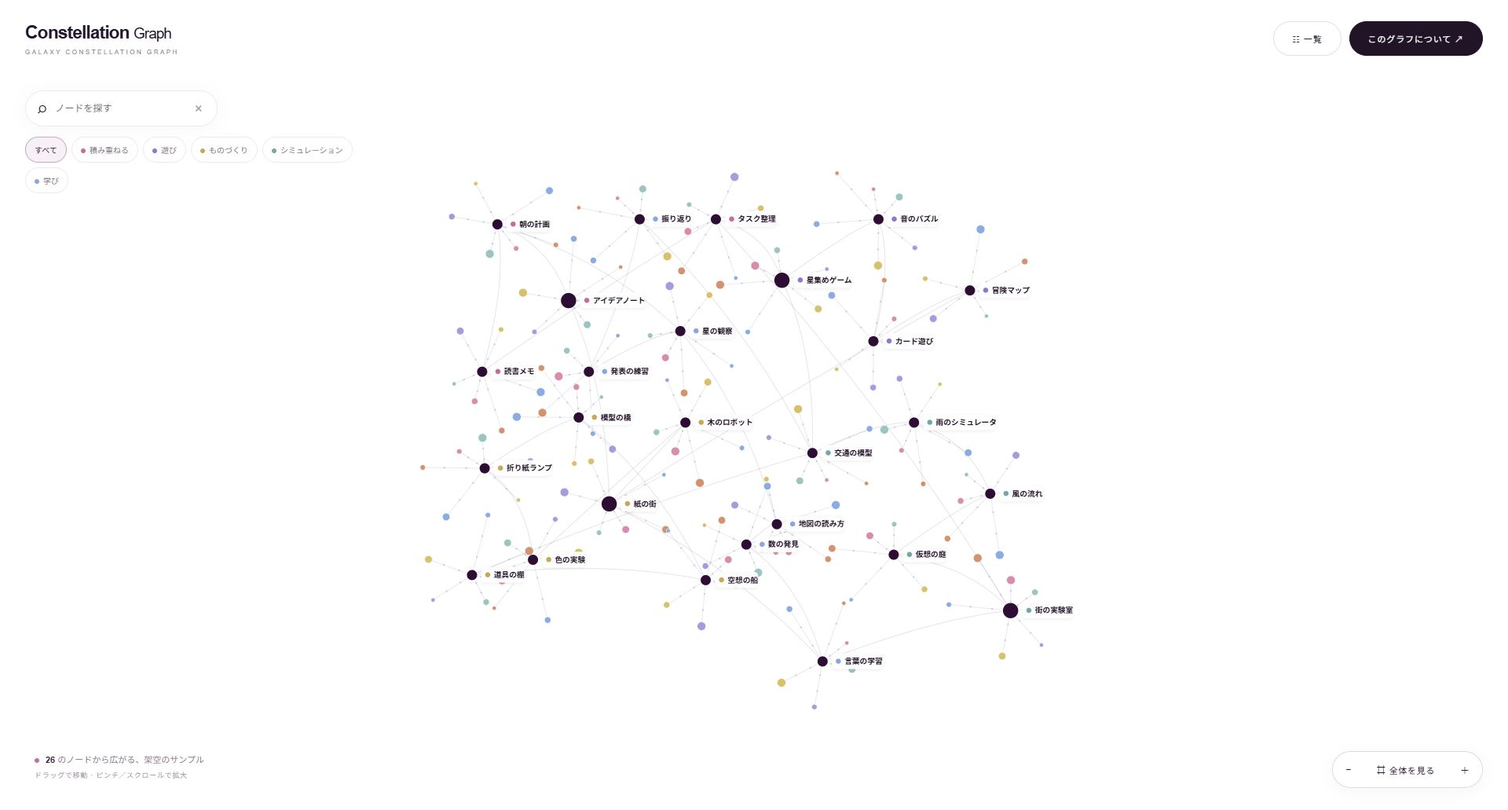
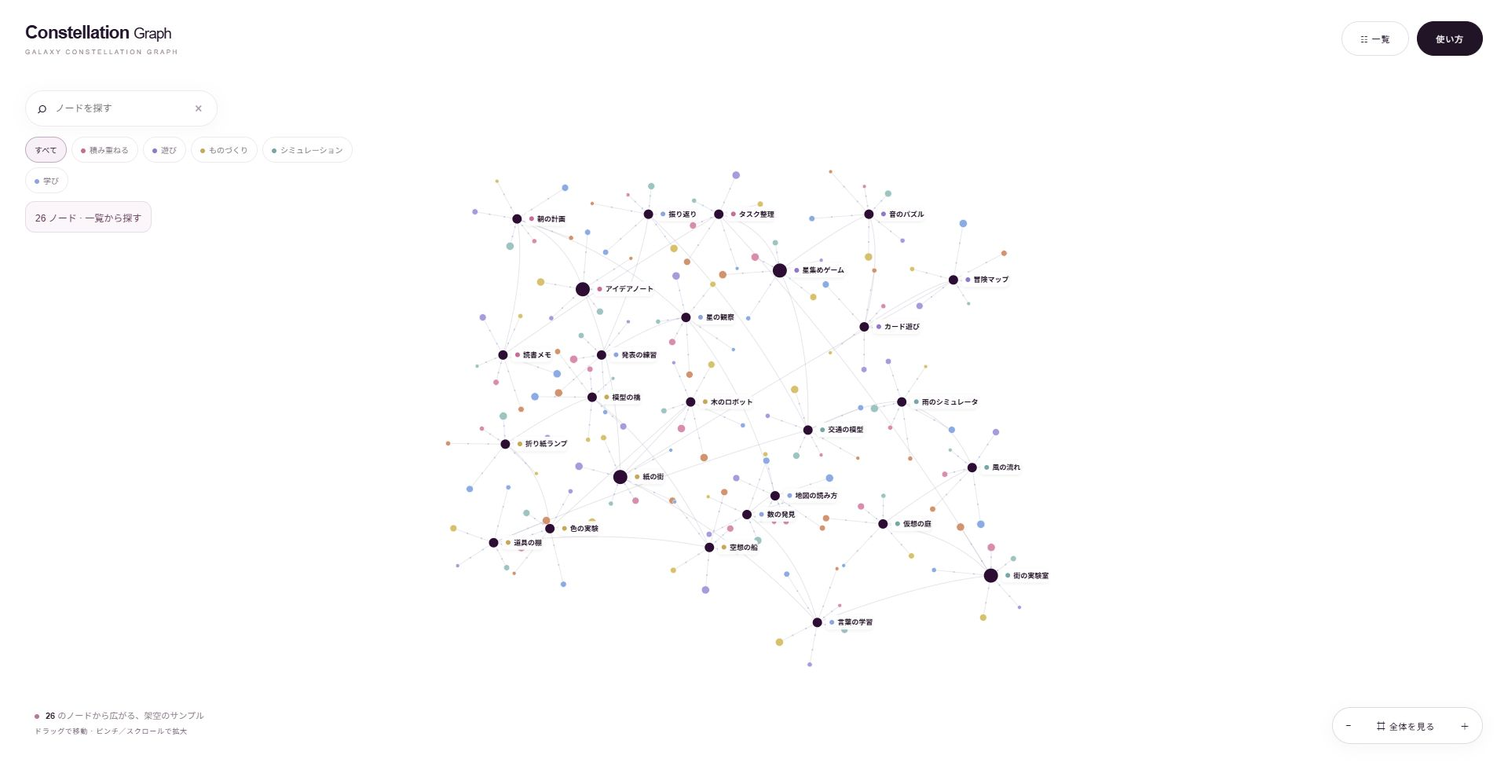
✨ Improve search feedback and graph navigation
- Add result counts, reset, detail history and locate action
- Refine narrow layouts and pointer-centered zoom
- Refresh screenshots and document verified UX flows

diff --git a/app.js b/app.js
@@ -1,19 +1,19 @@
-(async()=>{try {const response=await fetch('data.json');if(!response.ok)throw new Error('HTTP '+response.status);const D=GraphData.normalize(await response.json()),N=D.nodes,$=s=>document.querySelector(s),G={SYSTEM:['積み重ねる','#c76c96'],PLAY:['遊び','#8e78cf'],MAKE:['ものづくり','#c6a958'],SIM:['シミュレーション','#76a7a4'],LEARN:['学び','#8da5de']};let filter='ALL',query='',zoom=1,dx=0,dy=0,lastFocus,sortTime=false;const esc=s=>String(s).replace(/[&<>"']/g,c=>({'&':'&amp;','<':'&lt;','>':'&gt;','"':'&quot;',"'":'&#39;'}[c]));
+(async()=>{try {const response=await fetch('data.json');if(!response.ok)throw new Error('HTTP '+response.status);const D=GraphData.normalize(await response.json()),N=D.nodes,$=s=>document.querySelector(s),G={SYSTEM:['積み重ねる','#c76c96'],PLAY:['遊び','#8e78cf'],MAKE:['ものづくり','#c6a958'],SIM:['シミュレーション','#76a7a4'],LEARN:['学び','#8da5de']};let filter='ALL',query='',zoom=1,dx=0,dy=0,lastFocus,sortTime=false,detailTrail=[];const esc=s=>String(s).replace(/[&<>"']/g,c=>({'&':'&amp;','<':'&lt;','>':'&gt;','"':'&quot;',"'":'&#39;'}[c]));
 const pos=[[250,260],[110,110],[80,400],[540,100],[670,220],[860,100],[850,340],[1040,240],[330,660],[480,500],[180,770],[85,590],[270,490],[520,810],[60,800],[730,560],[930,500],[1080,640],[890,760],[1120,870],[750,970],[600,740],[660,700],[470,320],[290,400],[390,100]];
 N.forEach(n=>{if(!Object.hasOwn(G,n.group))Object.defineProperty(G,n.group,{value:[n.group,'#8b8490'],enumerable:true});if(!pos[n.id]){const a=n.id*2.399;pos[n.id]=[600+Math.cos(a)*(200+n.id*7),520+Math.sin(a)*(200+n.id*7)]}});$('#nodeCount').textContent=N.length;
 let leaves=[],leafMap=new Map(),branch=[];N.forEach(n=>n.quotes.forEach((q,j)=>{let l=leafMap.get(n.id+":"+q.id);if(!l){let angle=(j*2.399+n.id*.91),radius=60+(j%3)*31;l={id:leaves.length,x:pos[n.id][0]+Math.cos(angle)*radius,y:pos[n.id][1]+Math.sin(angle)*radius,n:n.id,q};leafMap.set(n.id+":"+q.id,l);leaves.push(l)}branch.push({n:n.id,l:l.id})}));const palette=['#d88dad','#a69bdb','#8babe2','#9dc4c0','#d7c16e','#d29371'];
 function visible(){return N.filter(n=>(filter==='ALL'||n.group===filter)&&(!query||[n.title,n.desc,n.sub,...n.quotes.map(q=>q.text)].join(' ').toLowerCase().includes(query)))}
-$('#filters').innerHTML='<button data-group="ALL" class="active">すべて</button>'+Object.entries(G).map(([k,[v,c]])=>`<button data-group="${esc(k)}"><i class="dot" style="--c:${c}"></i>${esc(v)}</button>`).join('');
+$('#filters').innerHTML='<button data-group="ALL" class="active" aria-pressed="true">すべて</button>'+Object.entries(G).map(([k,[v,c]])=>`<button data-group="${esc(k)}" aria-pressed="false"><i class="dot" style="--c:${c}"></i>${esc(v)}</button>`).join('');
 function transform(){let w=innerWidth,h=innerHeight;$('#world').setAttribute('transform',`translate(${w/2+dx},${h/2+dy}) scale(${zoom}) translate(-600,-520)`)}
 function reset(){const all=N.flatMap(n=>{let[x,y]=pos[n.id];return [[x-130,y-130],[x+Math.max(180,n.title.length*15+60),y+130]]});if(!all.length){zoom=1;dx=dy=0;transform();return}const xs=all.map(p=>p[0]),ys=all.map(p=>p[1]),minX=Math.min(...xs),maxX=Math.max(...xs),minY=Math.min(...ys),maxY=Math.max(...ys);zoom=Math.max(.02,Math.min(1.25,(innerWidth-40)/(maxX-minX),Math.max(80,innerHeight-300)/(maxY-minY)));dx=(600-(minX+maxX)/2)*zoom;dy=(520-(minY+maxY)/2)*zoom+45;transform()}
-function render(){let nodes=visible(),ids=new Set(nodes.map(n=>n.id));let html=D.edges.map(([a,b])=>`<path class="edge ${ids.has(a)&&ids.has(b)?'':'muted'}" d="M${pos[a]} Q${(pos[a][0]+pos[b][0])/2+35},${(pos[a][1]+pos[b][1])/2-35} ${pos[b]}"/>`).join('');html+=branch.map(({n,l})=>{let p=pos[n],s=leaves[l],on=ids.has(n);return `<path class="branch ${on?'':'muted'}" d="M${p} L${s.x},${s.y}"/>`+[.3,.65].map(t=>`<rect class="spark" x="${p[0]+(s.x-p[0])*t-1.5}" y="${p[1]+(s.y-p[1])*t-1.5}" width="3" height="3" opacity="${on?.7:.05}"/>`).join('')}).join('');html+=leaves.map((l,i)=>`<circle class="leaf ${ids.has(l.n)?'':'muted'}" data-source="${i}" role="button" tabindex="0" aria-label="${esc(N[l.n].title+'のメモ '+l.q.date.slice(0,10))}" cx="${l.x}" cy="${l.y}" r="${4+i%5*1.1}" fill="${palette[i%palette.length]}"><title>${esc(l.q.text.slice(0,70))}</title></circle>`).join('');html+=N.filter(n=>n.img).map(n=>{let[x,y]=pos[n.id];return `<path class="branch" d="M${x},${y} L${x-85},${y+90}"/><g class="asset" role="button" tabindex="0" aria-label="${esc(n.title)}のコンセプト画像" data-open="${n.id}" transform="translate(${x-85},${y+90})"><rect x="-31" y="-23" width="62" height="46" rx="5"/><image href="${esc(n.img)}" x="-28" y="-20" width="56" height="40" preserveAspectRatio="xMidYMid slice"/></g>`}).join('');html+=N.map(n=>{let[x,y]=pos[n.id],c=G[n.group][1],r=[0,4,8,19].includes(n.id)?15:10,wide=n.title.length*14+29;return `<g class="topic ${ids.has(n.id)?'':'muted'} ${query&&ids.has(n.id)?'match':''}" role="button" tabindex="0" aria-label="${esc(n.title)}" data-open="${n.id}" transform="translate(${x},${y})"><circle class="hub" r="${r}"/><rect class="label-bg" x="${r+8}" y="-16" rx="7" width="${wide}" height="31"/><circle cx="${r+21}" cy="-.5" r="5" fill="${c}"/><text x="${r+33}" y="5">${esc(n.title)}</text></g>`}).join('');$('#world').innerHTML=html;transform();let ordered=sortTime?[...nodes].sort((a,b)=>a.date.localeCompare(b.date)):nodes;$('#results').innerHTML=ordered.length?ordered.map(n=>`<button class="list-row" data-open="${n.id}"><span class="num">${String(n.id+1).padStart(2,'0')}</span><span><strong>${esc(n.title)}</strong><small>${esc(n.date)} · ${esc(n.sub)}</small></span><span class="go">↗</span></button>`).join(''):'<p class="empty">一致するノードがありません。</p>'}
-function show(html){if($('#drawer').hidden)lastFocus=document.activeElement;$('#detail').innerHTML=html;$('#drawer').hidden=false;$('#shade').hidden=false;document.body.classList.add('locked');$('#drawer').scrollTop=0;$('#close').focus()}
-function open(id){let n=N[id];let related=D.edges.flatMap(([a,b])=>a===id?[b]:b===id?[a]:[]);show(`<div class="eyebrow">${esc(G[n.group][0])} / ${String(id+1).padStart(2,'0')}</div><h2>${esc(n.title)}</h2><p class="sub">${esc(n.sub)}</p><p class="desc">${esc(n.desc)}</p>${n.img?`<img src="${esc(n.img)}" alt="${esc(n.title)}のコンセプトシート"><p class="note">架空のデモ画像です。</p>`:''}<h3>ノードのメモ</h3>${n.quotes.length?n.quotes.map(q=>`<blockquote>${esc(q.text).replace(/\[([^\]]+)\]\((https:\/\/[^)]+)\)/g,'<a href="$2" target="_blank" rel="noopener">$1 ↗</a>')}</blockquote><p class="source">${esc(q.author||'作成者未設定')} · ${esc(q.date.slice(0,10))}</p><details class="source"><summary>出典ID</summary>${esc(q.id)}</details>`).join(''):'<p class="note">メモは登録されていません。</p>'}${n.links.length?'<h3>関連する場所</h3>'+n.links.map(l=>`<a class="link" href="${esc(l)}" target="_blank" rel="noopener">${'関連リンク'} ↗</a>`).join(''):''}<h3>つながっているノード</h3>${related.map(i=>`<button class="related" data-open="${i}">${esc(N[i].title)} ↗</button>`).join('')}<p class="note">線はデータに定義されたノード同士の関係を表します。</p>`)}
-function close(){$('#drawer').hidden=true;$('#shade').hidden=true;document.body.classList.remove('locked');lastFocus?.focus()}
+function render(){let nodes=visible();$('#resultSummary').textContent=query||filter!=='ALL'?(nodes.length?nodes.length+' / '+N.length+' ノード · 結果を見る':'該当なし · 条件を変えてください'):N.length+' ノード · 一覧から探す';$('#resetFilters').hidden=!(query||filter!=='ALL');let ids=new Set(nodes.map(n=>n.id));let html=D.edges.map(([a,b])=>`<path class="edge ${ids.has(a)&&ids.has(b)?'':'muted'}" d="M${pos[a]} Q${(pos[a][0]+pos[b][0])/2+35},${(pos[a][1]+pos[b][1])/2-35} ${pos[b]}"/>`).join('');html+=branch.map(({n,l})=>{let p=pos[n],s=leaves[l],on=ids.has(n);return `<path class="branch ${on?'':'muted'}" d="M${p} L${s.x},${s.y}"/>`+[.3,.65].map(t=>`<rect class="spark" x="${p[0]+(s.x-p[0])*t-1.5}" y="${p[1]+(s.y-p[1])*t-1.5}" width="3" height="3" opacity="${on?.7:.05}"/>`).join('')}).join('');html+=leaves.map((l,i)=>`<circle class="leaf ${ids.has(l.n)?'':'muted'}" data-source="${i}" role="button" tabindex="${ids.has(l.n)?0:-1}" aria-label="${esc(N[l.n].title+'のメモ '+l.q.date.slice(0,10))}" cx="${l.x}" cy="${l.y}" r="${4+i%5*1.1}" fill="${palette[i%palette.length]}"><title>${esc(l.q.text.slice(0,70))}</title></circle>`).join('');html+=N.filter(n=>n.img).map(n=>{let[x,y]=pos[n.id];return `<path class="branch" d="M${x},${y} L${x-85},${y+90}"/><g class="asset" role="button" tabindex="0" aria-label="${esc(n.title)}のコンセプト画像" data-open="${n.id}" transform="translate(${x-85},${y+90})"><rect x="-31" y="-23" width="62" height="46" rx="5"/><image href="${esc(n.img)}" x="-28" y="-20" width="56" height="40" preserveAspectRatio="xMidYMid slice"/></g>`}).join('');html+=N.map(n=>{let[x,y]=pos[n.id],c=G[n.group][1],r=[0,4,8,19].includes(n.id)?15:10,wide=n.title.length*14+29;return `<g class="topic ${ids.has(n.id)?'':'muted'} ${query&&ids.has(n.id)?'match':''}" role="button" tabindex="${ids.has(n.id)?0:-1}" aria-label="${esc(n.title)}" data-open="${n.id}" transform="translate(${x},${y})"><circle class="hub" r="${r}"/><rect class="label-bg" x="${r+8}" y="-16" rx="7" width="${wide}" height="31"/><circle cx="${r+21}" cy="-.5" r="5" fill="${c}"/><text x="${r+33}" y="5">${esc(n.title)}</text></g>`}).join('');$('#world').innerHTML=html;transform();let ordered=sortTime?[...nodes].sort((a,b)=>a.date.localeCompare(b.date)):nodes;$('#results').innerHTML=ordered.length?ordered.map(n=>`<button class="list-row" data-open="${n.id}"><span class="num">${String(n.id+1).padStart(2,'0')}</span><span><strong>${esc(n.title)}</strong><small>${esc(n.date)} · ${esc(n.sub)}</small></span><span class="go">↗</span></button>`).join(''):'<p class="empty">一致するノードがありません。</p>'}
+function show(html){if($('#drawer').hidden){lastFocus=document.activeElement;detailTrail=[]}else{detailTrail.push({html:$('#detail').innerHTML,scroll:$('#drawer').scrollTop})}$('#detailBack').hidden=!detailTrail.length;$('#detail').innerHTML=html;$('#drawer').hidden=false;$('#shade').hidden=false;document.body.classList.add('locked');$('#drawer').scrollTop=0;$('#close').focus()}
+function open(id){let n=N[id];let related=D.edges.flatMap(([a,b])=>a===id?[b]:b===id?[a]:[]);show(`<div class="eyebrow">${esc(G[n.group][0])} / ${String(id+1).padStart(2,'0')}</div><h2>${esc(n.title)}</h2><button class="related" data-locate="${id}">このノードを地図で見る ↗</button><p class="sub">${esc(n.sub)}</p><p class="desc">${esc(n.desc)}</p>${n.img?`<img src="${esc(n.img)}" alt="${esc(n.title)}のコンセプトシート"><p class="note">架空のデモ画像です。</p>`:''}<h3>ノードのメモ</h3>${n.quotes.length?n.quotes.map(q=>`<blockquote>${esc(q.text).replace(/\[([^\]]+)\]\((https:\/\/[^)]+)\)/g,'<a href="$2" target="_blank" rel="noopener">$1 ↗</a>')}</blockquote><p class="source">${esc(q.author||'作成者未設定')} · ${esc(q.date.slice(0,10))}</p><details class="source"><summary>出典ID</summary>${esc(q.id)}</details>`).join(''):'<p class="note">メモは登録されていません。</p>'}${n.links.length?'<h3>関連する場所</h3>'+n.links.map(l=>`<a class="link" href="${esc(l)}" target="_blank" rel="noopener">${'関連リンク'} ↗</a>`).join(''):''}<h3>つながっているノード</h3>${related.map(i=>`<button class="related" data-open="${i}">${esc(N[i].title)} ↗</button>`).join('')}<p class="note">線はデータに定義されたノード同士の関係を表します。</p>`)}
+function close(){detailTrail=[];$('#detailBack').hidden=true;$('#drawer').hidden=true;$('#shade').hidden=true;document.body.classList.remove('locked');lastFocus?.focus()}
 function openSource(i){let l=leaves[i],q=l.q;show(`<div class="eyebrow">関連データ</div><h2>${esc(N[l.n].title)}</h2><blockquote>${esc(q.text)}</blockquote><p class="source">${esc(q.author||'作成者未設定')} · ${esc(q.date.slice(0,10))}</p><details class="source"><summary>出典ID</summary>${esc(q.id)}</details><button class="related" data-open="${l.n}">このノードをひらく ↗</button>`)}
-document.addEventListener('click',e=>{let o=e.target.closest('[data-open]');if(o)open(+o.dataset.open);let source=e.target.closest('[data-source]');if(source)openSource(+source.dataset.source);let f=e.target.closest('[data-group]');if(f){filter=f.dataset.group;document.querySelectorAll('[data-group]').forEach(x=>x.classList.toggle('active',x===f));render();let v=visible();if(filter!=='ALL'&&v.length){let xs=v.map(n=>pos[n.id][0]),ys=v.map(n=>pos[n.id][1]);zoom=Math.min(1.25,innerWidth/(Math.max(...xs)-Math.min(...xs)+300),(innerHeight-200)/(Math.max(...ys)-Math.min(...ys)+220));dx=(600-(Math.max(...xs)+Math.min(...xs)+150)/2)*zoom;dy=(520-(Math.max(...ys)+Math.min(...ys))/2)*zoom+50;transform()}else reset(true)}});document.addEventListener('keydown',e=>{if(e.key==='Escape'){if(!$('#drawer').hidden)close();$('#list').hidden=true}if((e.key==='Enter'||e.key===' ')&&e.target.matches('.topic,.leaf,.asset')){e.preventDefault();e.target.dataset.open!==undefined?open(+e.target.dataset.open):openSource(+e.target.dataset.source)}if(e.key==='Tab'&&!$('#drawer').hidden){let a=[...$('#drawer').querySelectorAll('button,a,summary')],first=a[0],last=a.at(-1);if(e.shiftKey&&document.activeElement===first){e.preventDefault();last.focus()}else if(!e.shiftKey&&document.activeElement===last){e.preventDefault();first.focus()}}});$('#close').onclick=close;$('#shade').onclick=close;$('#listToggle').onclick=()=>$('#list').hidden=!$('#list').hidden;$('#listClose').onclick=()=>$('#list').hidden=true;$('#time').onclick=()=>{sortTime=!sortTime;$('#time').textContent=sortTime?'ノード順に並べる':'日付順に並べる';render()};$('#search').oninput=e=>{query=e.target.value.toLowerCase().trim();render();if(query){let n=visible()[0];if(n){zoom=innerWidth<650?.86:1.15;dx=(600-pos[n.id][0]-80)*zoom;dy=(520-pos[n.id][1])*zoom;transform()}}};$('#clear').onclick=()=>{$('#search').value='';query='';render();reset(true)};$('#home').onclick=e=>{e.preventDefault();reset(true)};
+document.addEventListener('click',e=>{const locate=e.target.closest('[data-locate]');if(locate){const id=+locate.dataset.locate;$('#resetFilters').onclick();close();$('#list').hidden=true;zoom=innerWidth<650?.86:1.15;dx=(600-pos[id][0]-80)*zoom;dy=(520-pos[id][1])*zoom;transform();return}let o=e.target.closest('[data-open]');if(o)open(+o.dataset.open);let source=e.target.closest('[data-source]');if(source)openSource(+source.dataset.source);let f=e.target.closest('[data-group]');if(f){filter=f.dataset.group;document.querySelectorAll('[data-group]').forEach(x=>(x.classList.toggle('active',x===f),x.setAttribute('aria-pressed',x===f)));render();let v=visible();if(filter!=='ALL'&&v.length){let xs=v.map(n=>pos[n.id][0]),ys=v.map(n=>pos[n.id][1]);zoom=Math.min(1.25,innerWidth/(Math.max(...xs)-Math.min(...xs)+300),(innerHeight-200)/(Math.max(...ys)-Math.min(...ys)+220));dx=(600-(Math.max(...xs)+Math.min(...xs)+150)/2)*zoom;dy=(520-(Math.max(...ys)+Math.min(...ys))/2)*zoom+50;transform()}else reset(true)}});document.addEventListener('keydown',e=>{if(e.key==='Escape'){if(!$('#drawer').hidden)close();$('#list').hidden=true}if((e.key==='Enter'||e.key===' ')&&e.target.matches('.topic,.leaf,.asset')){e.preventDefault();e.target.dataset.open!==undefined?open(+e.target.dataset.open):openSource(+e.target.dataset.source)}if(e.key==='Tab'&&!$('#drawer').hidden){let a=[...$('#drawer').querySelectorAll('button,a,summary')].filter(el=>!el.hidden),first=a[0],last=a.at(-1);if(e.shiftKey&&document.activeElement===first){e.preventDefault();last.focus()}else if(!e.shiftKey&&document.activeElement===last){e.preventDefault();first.focus()}}});$('#detailBack').onclick=()=>{const prev=detailTrail.pop();if(!prev)return;$('#detail').innerHTML=prev.html;$('#drawer').scrollTop=prev.scroll;$('#detailBack').hidden=!detailTrail.length;$('#close').focus()};$('#close').onclick=close;$('#shade').onclick=close;$('#resultSummary').onclick=()=>{$('#list').hidden=false};$('#resetFilters').onclick=()=>{filter='ALL';query='';$('#search').value='';document.querySelectorAll('[data-group]').forEach(x=>{x.classList.toggle('active',x.dataset.group==='ALL');x.setAttribute('aria-pressed',x.dataset.group==='ALL')});render();reset()};$('#listToggle').onclick=()=>$('#list').hidden=!$('#list').hidden;$('#listClose').onclick=()=>$('#list').hidden=true;$('#time').onclick=()=>{sortTime=!sortTime;$('#time').textContent=sortTime?'ノード順に並べる':'日付順に並べる';render()};$('#search').oninput=e=>{query=e.target.value.toLowerCase().trim();render();if(query){let n=visible()[0];if(n){zoom=innerWidth<650?.86:1.15;dx=(600-pos[n.id][0]-80)*zoom;dy=(520-pos[n.id][1])*zoom;transform()}}};$('#clear').onclick=()=>{$('#search').value='';query='';render();reset(true)};$('#home').onclick=e=>{e.preventDefault();reset(true)};
 $('#scope').onclick=()=>show(`<div class="eyebrow">GALAXY CONSTELLATION GRAPH · DEMO</div><h2>ノードと辺で、<br>つながりを可視化。</h2><p class="desc">大きな濃色の点はノード。周囲の色付きの点は、架空の関連データです。どちらも触れると開きます。線をたどると、試行錯誤のつながりが見えてきます。</p><h3>収録範囲</h3><p class="desc">${esc(D.scope)}</p><p class="desc">${N.length}ノード・${leaves.length}件の関連データ。線はサンプルとして整理した関係で、実システムの接続や完成率ではありません。</p><h3>公開デモ</h3><p class="note">全データは公開デモ用に作成した架空の内容です。実在人物の記録・画像は含みません。外部解析タグはありません。</p>`);
-$('#plus').onclick=()=>{zoom=Math.min(3,zoom*1.3);transform()};$('#minus').onclick=()=>{zoom=Math.max(.2,zoom/1.3);transform()};$('#reset').onclick=()=>reset();let points=new Map(),start;const map=$('#map');map.onpointerdown=e=>{if(e.target.closest('.topic,.leaf,.asset'))return;points.set(e.pointerId,{x:e.clientX,y:e.clientY});map.setPointerCapture(e.pointerId);let p=[...points.values()];start={dx,dy,zoom,x:p[0].x,y:p[0].y,dist:p.length>1?Math.hypot(p[1].x-p[0].x,p[1].y-p[0].y):0}};map.onpointermove=e=>{if(!points.has(e.pointerId)||!start)return;points.set(e.pointerId,{x:e.clientX,y:e.clientY});let p=[...points.values()];if(p.length===2&&start.dist){zoom=Math.min(3,Math.max(.2,start.zoom*Math.hypot(p[1].x-p[0].x,p[1].y-p[0].y)/start.dist))}else{dx=start.dx+p[0].x-start.x;dy=start.dy+p[0].y-start.y}transform()};map.onpointerup=map.onpointercancel=e=>{points.delete(e.pointerId);let p=[...points.values()];start=p.length?{dx,dy,zoom,x:p[0].x,y:p[0].y,dist:0}:null};map.onwheel=e=>{e.preventDefault();zoom=Math.min(3,Math.max(.2,zoom*(e.deltaY<0?1.09:.92)));transform()};addEventListener('resize',transform);render();reset(true);
+$('#plus').onclick=()=>{zoom=Math.min(3,zoom*1.3);transform()};$('#minus').onclick=()=>{zoom=Math.max(.02,zoom/1.3);transform()};$('#reset').onclick=()=>reset();let points=new Map(),start;const map=$('#map');map.onpointerdown=e=>{if(e.target.closest('.topic,.leaf,.asset'))return;points.set(e.pointerId,{x:e.clientX,y:e.clientY});map.setPointerCapture(e.pointerId);let p=[...points.values()];start={dx,dy,zoom,x:p[0].x,y:p[0].y,dist:p.length>1?Math.hypot(p[1].x-p[0].x,p[1].y-p[0].y):0}};map.onpointermove=e=>{if(!points.has(e.pointerId)||!start)return;points.set(e.pointerId,{x:e.clientX,y:e.clientY});let p=[...points.values()];if(p.length===2&&start.dist){zoom=Math.min(3,Math.max(.02,start.zoom*Math.hypot(p[1].x-p[0].x,p[1].y-p[0].y)/start.dist))}else{dx=start.dx+p[0].x-start.x;dy=start.dy+p[0].y-start.y}transform()};map.onpointerup=map.onpointercancel=e=>{points.delete(e.pointerId);let p=[...points.values()];start=p.length?{dx,dy,zoom,x:p[0].x,y:p[0].y,dist:0}:null};map.onwheel=e=>{e.preventDefault();const old=zoom;zoom=Math.min(3,Math.max(.02,zoom*(e.deltaY<0?1.09:.92)));const ratio=zoom/old;dx=e.clientX-innerWidth/2-(e.clientX-innerWidth/2-dx)*ratio;dy=e.clientY-innerHeight/2-(e.clientY-innerHeight/2-dy)*ratio;transform()};addEventListener('resize',transform);render();reset(true);
 $('#status').textContent=N.length?'':'ノードがありません。data.json にノードを追加してください。';
 } catch(error) {document.querySelector('#status').textContent='データを読み込めません。HTTPサーバーで起動し、data.json の形式とURLを確認してください。';console.error(error);}
 })();

diff --git a/style.css b/style.css
@@ -1,3 +1,9 @@
 :root{--ink:#22152c;--muted:#8b8490;--rose:#bc6589}*{box-sizing:border-box}html,body{margin:0;width:100%;height:100%;overflow:hidden;background:#fff;color:var(--ink);font-family:Arial,'Noto Sans JP',sans-serif}button,input,a{-webkit-tap-highlight-color:transparent}button{font:inherit;color:inherit;cursor:pointer;background:none;border:0}button:focus-visible,a:focus-visible,input:focus-visible{outline:2px solid var(--rose);outline-offset:4px}a{color:inherit}#space{position:fixed;inset:0}#map{width:100%;height:100%;touch-action:none;cursor:grab}#map:active{cursor:grabbing}header{position:fixed;top:0;left:0;right:0;padding:27px 32px;display:flex;align-items:center;justify-content:space-between;pointer-events:none;background:linear-gradient(#fffffff5,#ffffffbb,transparent);z-index:2}.brand{pointer-events:auto;text-decoration:none;font-size:23px;letter-spacing:-1px;font-weight:600}.brand i{font-weight:300;font-style:normal;color:#bb7291;padding:0 7px}.brand b{font-size:19px;font-weight:500}.brand small{display:block;font-size:8px;letter-spacing:2.5px;font-weight:400;margin-top:7px;color:#90818e}.top-actions{display:flex;gap:10px;pointer-events:auto}.top-actions button{background:#fff;border:1px solid #e4e0e6;border-radius:28px;padding:13px 23px;font-size:11px;letter-spacing:.08em}.top-actions #scope{background:#211426;color:white;border-color:#211426}.tools{position:fixed;left:32px;top:115px;z-index:2;pointer-events:none}.tools label{pointer-events:auto;display:flex;align-items:center;gap:9px;background:#ffffffeb;box-shadow:0 3px 24px #48274408;border:1px solid #eee9ed;border-radius:24px;padding:10px 15px;width:245px;font-size:20px}.tools input{font-size:12px;width:170px;outline:none;background:none;border:0;color:#33253a}.tools label button{color:#a69ba7;font-size:18px;padding:0}#filters{display:flex;gap:6px;margin-top:13px;flex-wrap:wrap;max-width:440px;pointer-events:auto}#filters button{border:1px solid #eee9ed;background:#ffffffdb;border-radius:20px;font-size:10px;padding:8px 11px;color:#817582}#filters button.active{color:#291330;border-color:#bfacbd;background:#f7f0f6}.dot{display:inline-block;width:6px;height:6px;border-radius:50%;background:var(--c);margin-right:5px}#bottom{position:fixed;left:32px;right:32px;bottom:28px;display:flex;align-items:end;justify-content:space-between;pointer-events:none;z-index:2}.legend{background:#ffffffd9;border-radius:10px;font-size:11px;color:#8a7b89;padding:10px 12px}.legend b{color:#342539}.legend small{display:block;font-size:9px;color:#a79ba7;margin-top:6px;letter-spacing:.08em}.live{display:inline-block;width:6px;height:6px;background:#b9759b;border-radius:50%;margin-right:8px}#bottom nav{display:flex;align-items:center;border:1px solid #dfd9e1;box-shadow:0 4px 20px #3822430a;border-radius:28px;background:#fffffff5;pointer-events:auto}#bottom button{padding:14px 16px;font-size:12px}#bottom #reset{font-size:11px;letter-spacing:.06em}.edge{stroke:#5c4676;stroke-opacity:.15;fill:none;vector-effect:non-scaling-stroke}.branch{stroke:#8b8199;stroke-opacity:.19;fill:none;vector-effect:non-scaling-stroke}.topic{cursor:pointer}.topic .hub{transition:r .2s,fill .2s;fill:#2e0d35}.topic:hover .hub,.topic:focus .hub{fill:#8b477d;stroke:#f0dbe8;stroke-width:5}.label-bg{fill:#fff;fill-opacity:.95;filter:drop-shadow(0px 2px 3px #2d173914)}.topic text{font-size:15px;fill:#241429;font-weight:600;pointer-events:none}.leaf{cursor:pointer;stroke:#fff;stroke-width:.8}.leaf:hover{stroke:#392046;stroke-width:2}.asset rect{fill:#fff;stroke:#eee8ee;stroke-width:2}.topic.muted,.leaf.muted{opacity:.075}.edge.muted,.branch.muted{opacity:.06}.topic.match .hub{fill:#a65a84;stroke:#dfabc7;stroke-width:5}.spark{fill:#a5b4e5;opacity:.65;pointer-events:none}#list{position:fixed;z-index:4;top:95px;right:25px;bottom:95px;width:430px;max-width:calc(100% - 30px);overflow:auto;border:1px solid #ece6ed;border-radius:19px;background:#fffffff5;box-shadow:0 20px 90px #30203418;padding:22px}.list-head{display:flex;align-items:center;gap:10px}.list-head h2{font-size:18px;flex:1}.list-head button{font-size:10px;color:#8b778d}#listClose{font-size:25px!important}.list-row{display:flex;width:100%;align-items:center;text-align:left;border-bottom:1px solid #eee7ed;padding:18px 0;gap:14px}.list-row .num{color:#bc95b2;font-size:10px}.list-row strong{font-size:14px;font-weight:500;display:block}.list-row small{font-size:10px;color:#9a8a9a;display:block;margin-top:5px}.list-row .go{margin-left:auto;color:#9a8097}.empty{padding:30px 0;color:#998a99;font-size:12px}#shade{position:fixed;inset:0;background:#2d183117;backdrop-filter:blur(2px);z-index:5}#drawer{position:fixed;right:18px;top:18px;bottom:18px;width:470px;max-width:calc(100% - 36px);background:#fff;z-index:6;overflow:auto;padding:54px 32px 35px;border:1px solid #ece5ed;border-radius:22px;box-shadow:0 20px 90px #32143d1a}#close{position:absolute;right:19px;top:18px;width:30px;height:30px;border-radius:50%;background:#f8f4f7;font-size:13px}.eyebrow{font-size:9px;letter-spacing:.15em;color:#b2709a}#detail h2{font-size:27px;font-weight:500;line-height:1.6;margin:17px 0 5px}#detail .sub{font-size:12px;color:#a47595}#detail .desc{line-height:2;font-size:14px;margin:23px 0}#detail h3{font-size:10px;letter-spacing:.12em;color:#9d8398;margin-top:30px}#detail blockquote{margin:17px 0 9px;padding:0 0 0 14px;border-left:2px solid #d9adca;line-height:1.9;font-size:13px;white-space:pre-line}#detail .source{font-size:9px;color:#a298a3;overflow-wrap:anywhere}#detail details.source{margin-bottom:23px}#detail .link{display:block;padding:14px 0;border-bottom:1px solid #e9dfeb;text-decoration:none;font-size:12px}#detail .related{display:inline-block;border:1px solid #e7d9e5;border-radius:20px;padding:9px 12px;margin:4px;font-size:11px;color:#896080}#detail img{width:100%;border-radius:8px;margin-top:16px}#detail .note{font-size:10px;color:#a193a1;line-height:1.8}#detail ul{padding-left:18px;line-height:2;font-size:13px}[hidden]{display:none!important}@media(max-width:650px){header{padding:20px 18px}.brand{font-size:19px}.brand b{font-size:15px}.brand small{font-size:6px;letter-spacing:1.6px}.top-actions{gap:5px}.top-actions button{font-size:10px;padding:10px 13px}#scope{max-width:84px;line-height:1.5}.tools{left:18px;right:18px;top:96px}.tools label{width:200px;padding:8px 12px}.tools input{width:132px;font-size:11px}#filters{max-width:340px;gap:5px;margin-top:10px}#filters button{font-size:9px;padding:6px 9px}#bottom{left:14px;right:14px;bottom:18px;align-items:end}.legend{font-size:9px;padding:8px 7px;max-width:160px}.legend small{font-size:7px;line-height:1.5;letter-spacing:0}#bottom button{padding:12px 11px}#bottom #reset{font-size:10px}#drawer{inset:10px;max-width:calc(100% - 20px);width:auto;padding:55px 24px 25px}#detail h2{font-size:26px}#list{top:185px;right:15px;bottom:85px;width:calc(100% - 30px)}.topic text{font-size:15px}}
 
 #status:not(:empty){position:fixed;left:20px;right:20px;top:240px;z-index:3;background:#fff5f8;border:1px solid #bc6589;border-radius:12px;padding:20px;text-align:center}#detail{overflow-wrap:anywhere}.leaf:focus-visible,.topic:focus-visible{outline:2px solid var(--rose)}@media(max-width:650px){#filters button{min-height:36px}.top-actions button,#close,#listClose{min-height:44px;min-width:44px}.tools input{font-size:16px}.tools label{width:235px}.tools input{width:165px}#list{top:220px}}@media(prefers-reduced-motion:reduce){*{transition:none!important}}
+
+/* Search feedback stays beside the controls, even when the list is closed. */
+.search-feedback{display:flex;gap:8px;align-items:center;pointer-events:auto;margin-top:10px;flex-wrap:wrap}.search-feedback button{font-size:12px;padding:9px 12px;border-radius:12px;background:#faf6f9;color:#66415c;border:1px solid #e8dce5;min-height:40px}#resetFilters{background:#fff;text-decoration:underline}#detailBack{position:sticky;top:0;background:#fff5fa;border:1px solid #e8dce5;border-radius:10px;padding:10px 14px;margin:0 0 12px;min-height:44px;color:#66415c;font-size:13px}.topic.muted,.leaf.muted{pointer-events:none}.list-head{position:sticky;top:-22px;background:#fff;padding:8px 0;z-index:1}.list-row strong{font-size:16px}.list-row small{font-size:12px;color:#776577}#detail .source,#detail .note{font-size:12px;color:#766775}#detail h3{font-size:12px}#detail blockquote{font-size:14px}#detail .related{font-size:13px;min-height:44px}#bottom button{min-height:44px}.legend small{color:#776577}
+@media(max-width:650px){header{padding:16px;gap:10px}.brand{font-size:17px;white-space:nowrap}.brand b{font-size:14px}.brand small{letter-spacing:1px}.top-actions button{padding:10px;font-size:11px;white-space:nowrap}#scope{max-width:none;font-size:0}#scope::after{content:'使い方';font-size:11px}.tools{top:85px;left:16px;right:16px}.tools label{width:100%}.tools input{width:100%;min-width:0}.tools label button{min-width:32px;min-height:28px}#filters{flex-wrap:nowrap;overflow-x:auto;max-width:100%;padding-bottom:4px}#filters button{flex:none;min-height:42px;font-size:11px;padding:9px 12px}.search-feedback{margin-top:6px;gap:5px}.search-feedback button{font-size:11px;padding:8px 10px}#list{top:240px;bottom:84px;padding:16px}.list-head{top:-16px}.legend{max-width:125px}.legend small{display:none}#bottom{bottom:max(14px,env(safe-area-inset-bottom));gap:8px}#bottom nav{flex-shrink:0}#bottom #reset{white-space:nowrap}#detail h2{font-size:24px}.list-row{padding:16px 0}#drawer{padding:54px 20px 24px}.list-head h2{font-size:16px}.list-head button{font-size:11px}}
+
+@media(max-width:650px){#scope{font-size:11px}#scope::after{content:none}#list{top:262px}#filters{scrollbar-width:thin}}

diff --git a/index.html b/index.html
@@ -1,7 +1,7 @@
 <!doctype html><html lang="ja"><meta charset="utf-8"><meta name="viewport" content="width=device-width,initial-scale=1,maximum-scale=5"><title>Galaxy Constellation Graph</title><link rel="stylesheet" href="style.css"><body>
 <main id="space"><svg id="map" aria-label="ノードと辺がつながるグラフ"><g id="world"></g></svg></main>
-<header><a class="brand" href="#" id="home">Constellation <b>Graph</b><small>GALAXY CONSTELLATION GRAPH</small></a><div class="top-actions"><button id="listToggle">☷ <span>一覧</span></button><button id="scope">このグラフについて ↗</button></div></header>
-<div class="tools"><label>⌕ <input id="search" placeholder="ノードを探す" aria-label="ノードを探す"><button id="clear" aria-label="検索を消す">×</button></label><div id="filters"></div></div>
+<header><a class="brand" href="#" id="home">Constellation <b>Graph</b><small>GALAXY CONSTELLATION GRAPH</small></a><div class="top-actions"><button id="listToggle">☷ <span>一覧</span></button><button id="scope">使い方</button></div></header>
+<div class="tools"><label>⌕ <input id="search" placeholder="ノードを探す" aria-label="ノードを探す"><button id="clear" aria-label="検索を消す">×</button></label><div id="filters"></div><div class="search-feedback"><button id="resultSummary" aria-live="polite">読み込み中</button><button id="resetFilters" hidden>条件をリセット</button></div></div>
 <div id="bottom"><div class="legend"><span class="live"></span><b id="nodeCount">0</b> のノードから広がる、架空のサンプル<small>ドラッグで移動 · ピンチ／スクロールで拡大</small></div><nav><button id="minus" aria-label="縮小">−</button><button id="reset">⌗ 全体を見る</button><button id="plus" aria-label="拡大">＋</button></nav></div>
 <div id="list" hidden><div class="list-head"><h2>ノードをたどる</h2><button id="time">日付順に並べる</button><button id="listClose" aria-label="一覧を閉じる">×</button></div><div id="results"></div></div>
-<div id="shade" hidden></div><aside id="drawer" role="dialog" aria-modal="true" aria-label="ノードの詳細" hidden><button id="close" aria-label="詳細を閉じる">✕</button><div id="detail"></div></aside><p id="status" role="status" aria-live="polite"></p><script src="graph-data.js"></script><script src="app.js"></script></body></html>
+<div id="shade" hidden></div><aside id="drawer" role="dialog" aria-modal="true" aria-label="ノードの詳細" hidden><button id="detailBack" hidden>← 前のノードへ</button><button id="close" aria-label="詳細を閉じる">✕</button><div id="detail"></div></aside><p id="status" role="status" aria-live="polite"></p><script src="graph-data.js"></script><script src="app.js"></script></body></html>

diff --git a/QA.md b/QA.md
@@ -1,0 +1,20 @@
+# UI/UX verification — 2026-11-15
+
+## Observed problems and changes
+- Empty search only faded the canvas: added persistent result count, empty-result text and a reset action beside search.
+- Related-node details had no return path: added detail history with scroll restoration.
+- The currently read related node could be off-screen: added an explicit locate-on-map action.
+- Narrow headers wrapped and controls crowded the canvas: shortened help label, full-width search, horizontally scrollable categories and larger detail text.
+- Wheel zoom was centered on the viewport: anchored zoom to the pointer; aligned minimum zoom with overview.
+
+## Checks
+Windows Chrome, desktop viewport and 390 × 844 / 320 × 740 responsive viewports:
+- Search → result list → detail → related detail → previous detail → close.
+- Previous detail restores its content; automated regression also checks scroll offset.
+- Locate clears filters, closes panels and centers the chosen node.
+- Empty search and reset; no horizontal page overflow at 320 px.
+- Drag changes translation; zoom changes scale; overview restores the original fitted transform.
+- No warning/error console output in tested local flows.
+- Synthetic dataset validation and Node regression tests passed.
+
+Responsive viewport testing is not a physical iPhone/Android test. Multi-finger touch, OS virtual keyboards and Safari are not verified. The overview intentionally favors the complete graph; use search/list or zoom for small labels.
